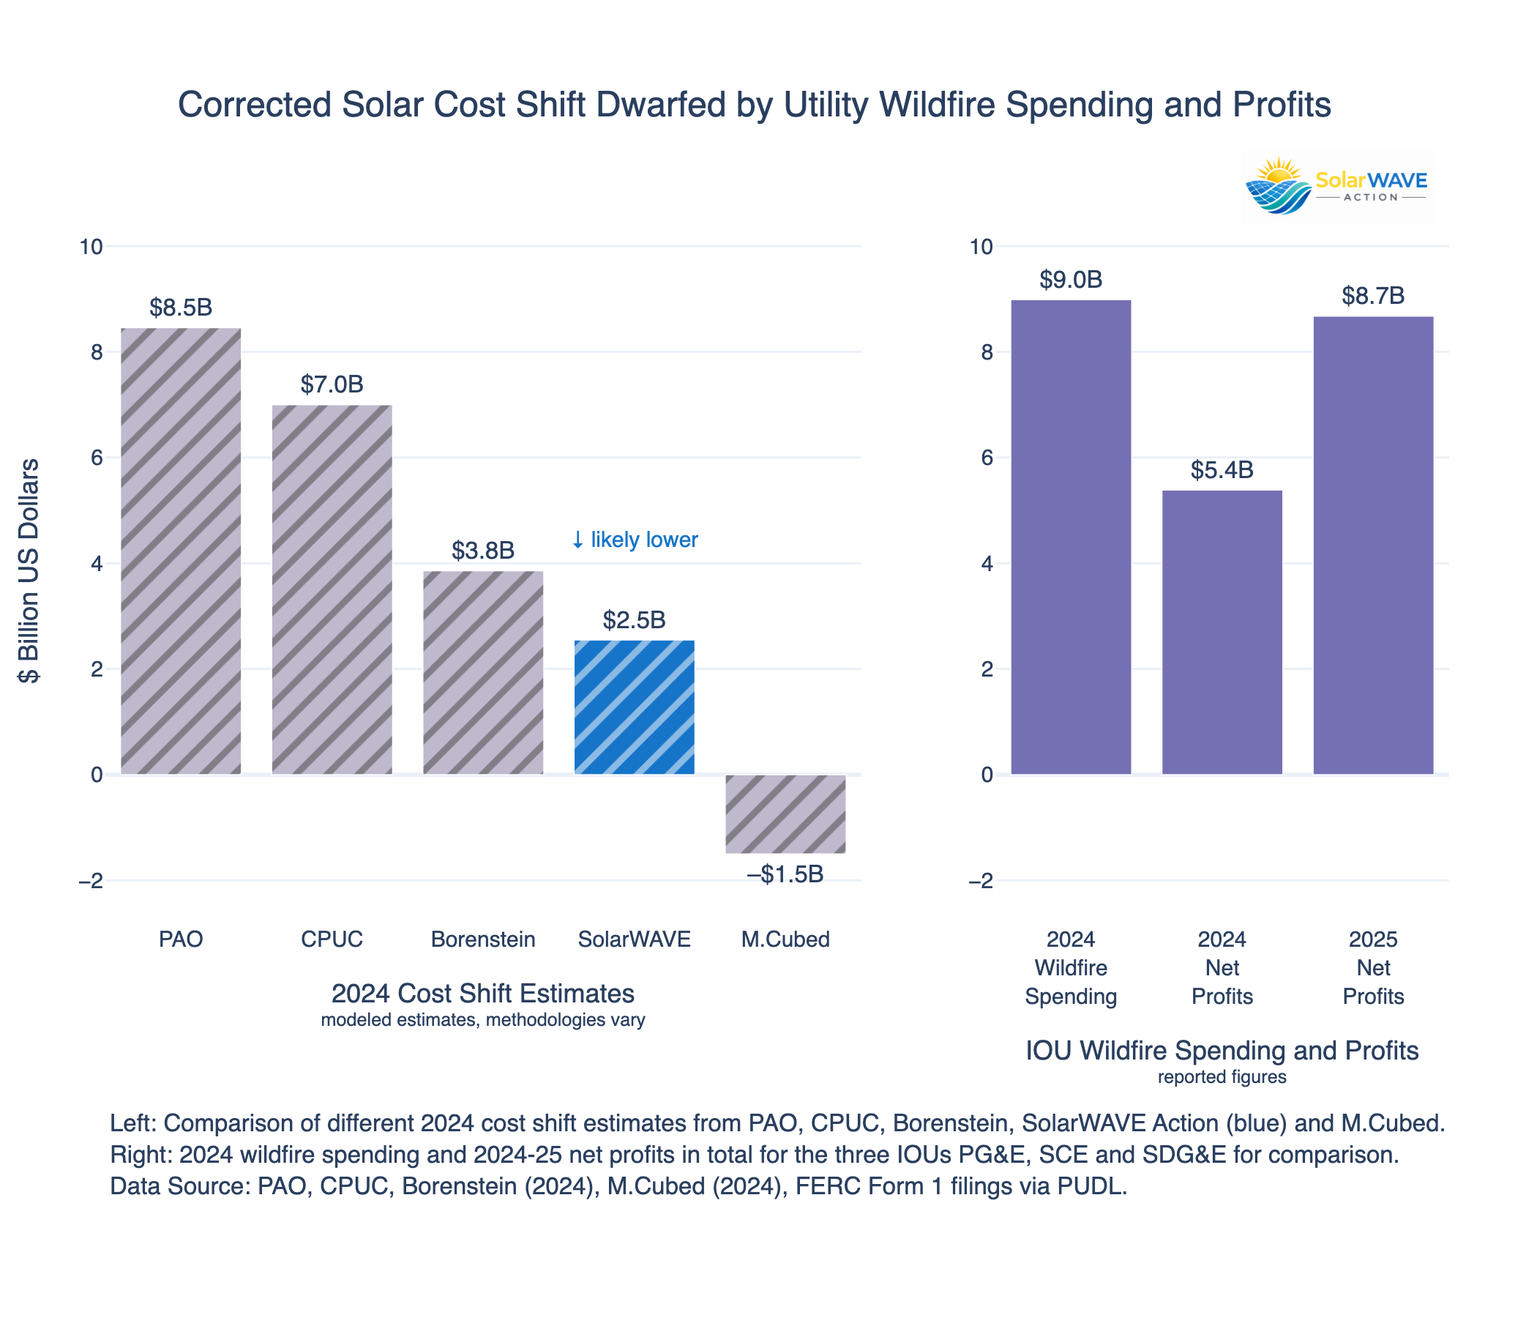
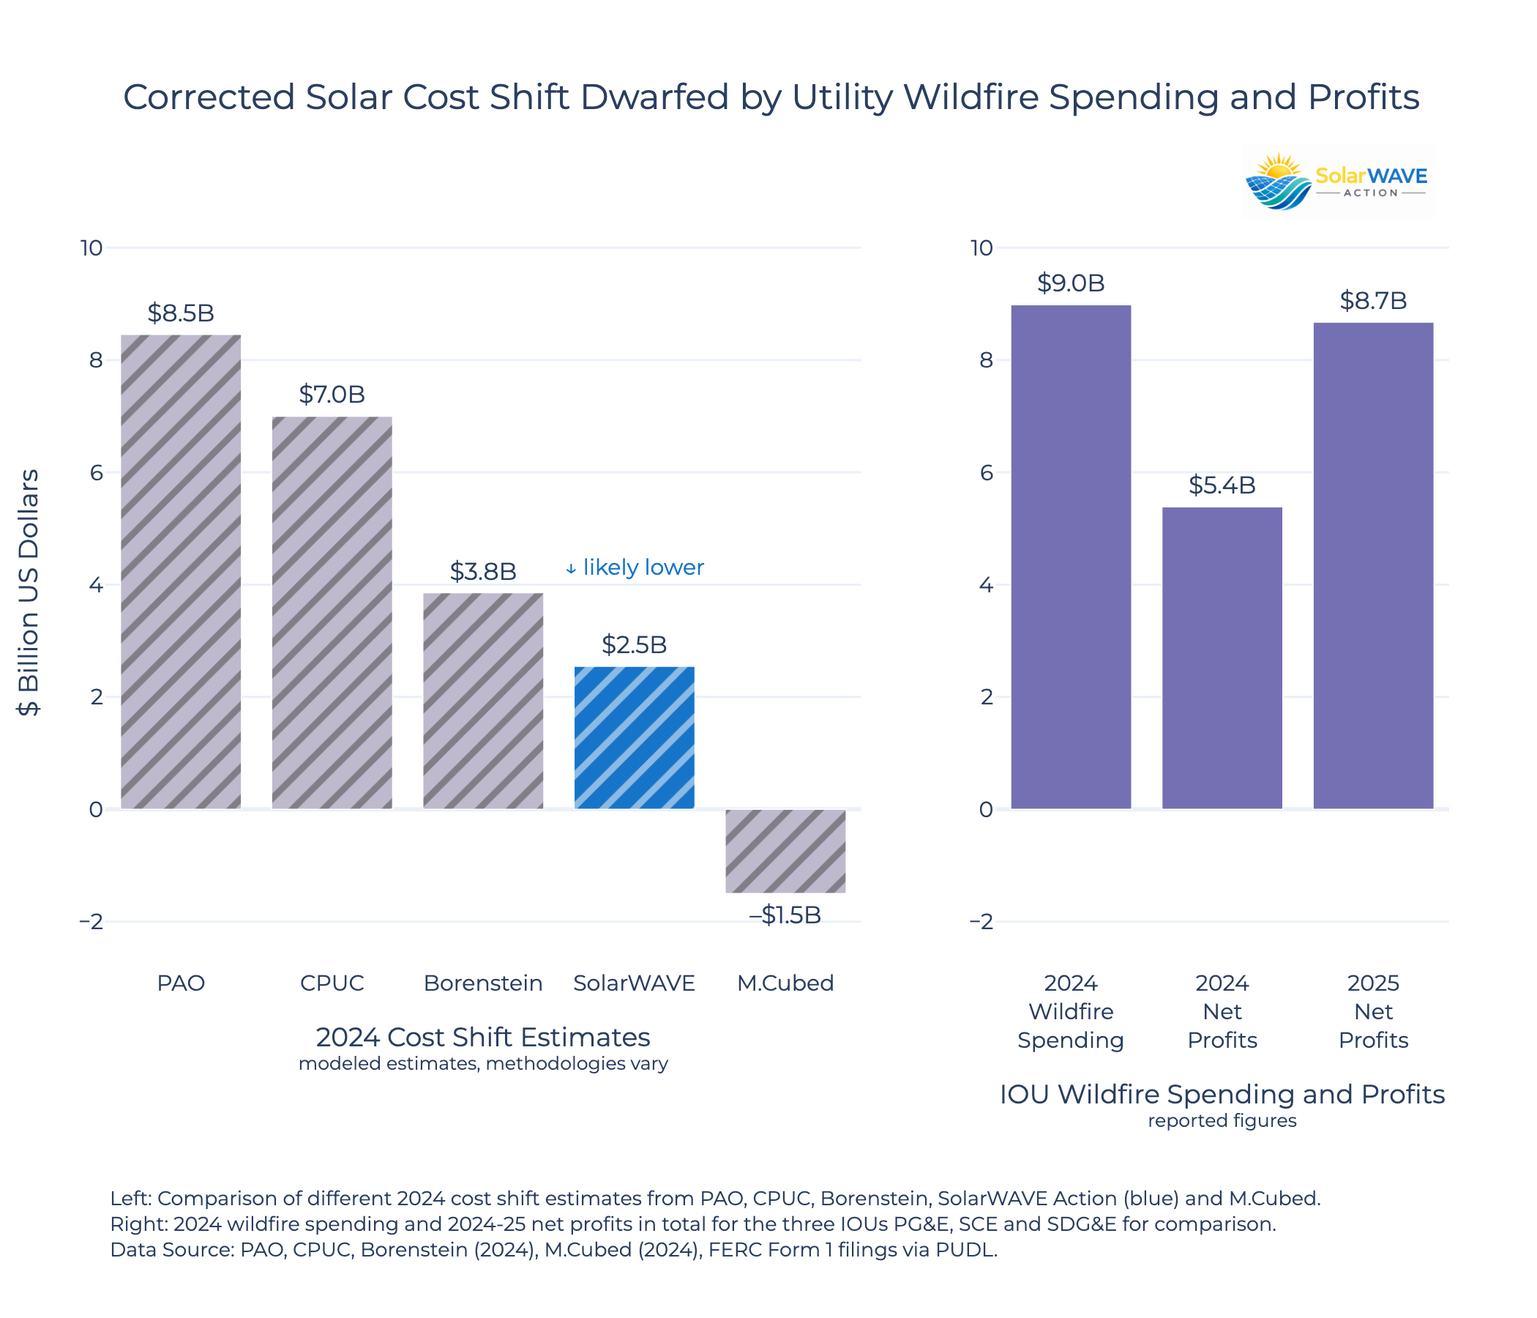
updated png with montserrat

diff --git a/assets/graphs/cost_shift_bargraph.html b/assets/graphs/cost_shift_bargraph.html
@@ -7,7 +7,7 @@
 </head>
 <body>
     <div>                        <script type="text/javascript">window.PlotlyConfig = {MathJaxConfig: 'local'};</script>
-        <script charset="utf-8" src="https://cdn.plot.ly/plotly-3.3.1.min.js" integrity="sha256-4rD3fugVb/nVJYUv5Ky3v+fYXoouHaBSP20WIJuEiWg=" crossorigin="anonymous"></script>                <div id="8f052108-950e-4881-932a-149061d0cab4" class="plotly-graph-div" style="height:600px; width:100%;"></div>            <script type="text/javascript">                window.PLOTLYENV=window.PLOTLYENV || {};                                if (document.getElementById("8f052108-950e-4881-932a-149061d0cab4")) {                    Plotly.newPlot(                        "8f052108-950e-4881-932a-149061d0cab4",                        [{"hovertemplate":"Cost shift method: %{x}\u003cbr\u003eEstimate: $%{y:.1f} billion\u003cextra\u003e\u003c\u002fextra\u003e","marker":{"color":["rgb(190, 185, 205)","rgb(190, 185, 205)","rgb(190, 185, 205)","#1775c9","rgb(190, 185, 205)"],"pattern":{"fgcolor":"rgba(0,0,0,0.2)","shape":"\u002f","solidity":0.3}},"text":["$8.5B","$7.0B","$3.8B","$2.5B","–$1.5B"],"textfont":{"size":11},"textposition":"outside","x":["PAO","CPUC","Borenstein","SolarWAVE","M.Cubed"],"y":[8.455,7.0,3.856,2.547,-1.5],"type":"bar","xaxis":"x","yaxis":"y"},{"hovertemplate":"Category: %{x}\u003cbr\u003eAmount: $%{y:.1f} billion\u003cextra\u003e\u003c\u002fextra\u003e","marker":{"color":"rgb(117,112,179)"},"text":["$9.0B","$5.4B","$8.7B"],"textfont":{"size":11},"textposition":"outside","x":["2024\u003cbr\u003eWildfire\u003cbr\u003eSpending","2024\u003cbr\u003eNet\u003cbr\u003eProfits","2025\u003cbr\u003eNet\u003cbr\u003eProfits"],"y":[8.985,5.384,8.675],"type":"bar","xaxis":"x2","yaxis":"y2"}],                        {"template":{"data":{"histogram2dcontour":[{"type":"histogram2dcontour","colorbar":{"outlinewidth":0,"ticks":""},"colorscale":[[0.0,"#0d0887"],[0.1111111111111111,"#46039f"],[0.2222222222222222,"#7201a8"],[0.3333333333333333,"#9c179e"],[0.4444444444444444,"#bd3786"],[0.5555555555555556,"#d8576b"],[0.6666666666666666,"#ed7953"],[0.7777777777777778,"#fb9f3a"],[0.8888888888888888,"#fdca26"],[1.0,"#f0f921"]]}],"choropleth":[{"type":"choropleth","colorbar":{"outlinewidth":0,"ticks":""}}],"histogram2d":[{"type":"histogram2d","colorbar":{"outlinewidth":0,"ticks":""},"colorscale":[[0.0,"#0d0887"],[0.1111111111111111,"#46039f"],[0.2222222222222222,"#7201a8"],[0.3333333333333333,"#9c179e"],[0.4444444444444444,"#bd3786"],[0.5555555555555556,"#d8576b"],[0.6666666666666666,"#ed7953"],[0.7777777777777778,"#fb9f3a"],[0.8888888888888888,"#fdca26"],[1.0,"#f0f921"]]}],"heatmap":[{"type":"heatmap","colorbar":{"outlinewidth":0,"ticks":""},"colorscale":[[0.0,"#0d0887"],[0.1111111111111111,"#46039f"],[0.2222222222222222,"#7201a8"],[0.3333333333333333,"#9c179e"],[0.4444444444444444,"#bd3786"],[0.5555555555555556,"#d8576b"],[0.6666666666666666,"#ed7953"],[0.7777777777777778,"#fb9f3a"],[0.8888888888888888,"#fdca26"],[1.0,"#f0f921"]]}],"contourcarpet":[{"type":"contourcarpet","colorbar":{"outlinewidth":0,"ticks":""}}],"contour":[{"type":"contour","colorbar":{"outlinewidth":0,"ticks":""},"colorscale":[[0.0,"#0d0887"],[0.1111111111111111,"#46039f"],[0.2222222222222222,"#7201a8"],[0.3333333333333333,"#9c179e"],[0.4444444444444444,"#bd3786"],[0.5555555555555556,"#d8576b"],[0.6666666666666666,"#ed7953"],[0.7777777777777778,"#fb9f3a"],[0.8888888888888888,"#fdca26"],[1.0,"#f0f921"]]}],"surface":[{"type":"surface","colorbar":{"outlinewidth":0,"ticks":""},"colorscale":[[0.0,"#0d0887"],[0.1111111111111111,"#46039f"],[0.2222222222222222,"#7201a8"],[0.3333333333333333,"#9c179e"],[0.4444444444444444,"#bd3786"],[0.5555555555555556,"#d8576b"],[0.6666666666666666,"#ed7953"],[0.7777777777777778,"#fb9f3a"],[0.8888888888888888,"#fdca26"],[1.0,"#f0f921"]]}],"mesh3d":[{"type":"mesh3d","colorbar":{"outlinewidth":0,"ticks":""}}],"scatter":[{"fillpattern":{"fillmode":"overlay","size":10,"solidity":0.2},"type":"scatter"}],"parcoords":[{"type":"parcoords","line":{"colorbar":{"outlinewidth":0,"ticks":""}}}],"scatterpolargl":[{"type":"scatterpolargl","marker":{"colorbar":{"outlinewidth":0,"ticks":""}}}],"bar":[{"error_x":{"color":"#2a3f5f"},"error_y":{"color":"#2a3f5f"},"marker":{"line":{"color":"white","width":0.5},"pattern":{"fillmode":"overlay","size":10,"solidity":0.2}},"type":"bar"}],"scattergeo":[{"type":"scattergeo","marker":{"colorbar":{"outlinewidth":0,"ticks":""}}}],"scatterpolar":[{"type":"scatterpolar","marker":{"colorbar":{"outlinewidth":0,"ticks":""}}}],"histogram":[{"marker":{"pattern":{"fillmode":"overlay","size":10,"solidity":0.2}},"type":"histogram"}],"scattergl":[{"type":"scattergl","marker":{"colorbar":{"outlinewidth":0,"ticks":""}}}],"scatter3d":[{"type":"scatter3d","line":{"colorbar":{"outlinewidth":0,"ticks":""}},"marker":{"colorbar":{"outlinewidth":0,"ticks":""}}}],"scattermap":[{"type":"scattermap","marker":{"colorbar":{"outlinewidth":0,"ticks":""}}}],"scattermapbox":[{"type":"scattermapbox","marker":{"colorbar":{"outlinewidth":0,"ticks":""}}}],"scatterternary":[{"type":"scatterternary","marker":{"colorbar":{"outlinewidth":0,"ticks":""}}}],"scattercarpet":[{"type":"scattercarpet","marker":{"colorbar":{"outlinewidth":0,"ticks":""}}}],"carpet":[{"aaxis":{"endlinecolor":"#2a3f5f","gridcolor":"#C8D4E3","linecolor":"#C8D4E3","minorgridcolor":"#C8D4E3","startlinecolor":"#2a3f5f"},"baxis":{"endlinecolor":"#2a3f5f","gridcolor":"#C8D4E3","linecolor":"#C8D4E3","minorgridcolor":"#C8D4E3","startlinecolor":"#2a3f5f"},"type":"carpet"}],"table":[{"cells":{"fill":{"color":"#EBF0F8"},"line":{"color":"white"}},"header":{"fill":{"color":"#C8D4E3"},"line":{"color":"white"}},"type":"table"}],"barpolar":[{"marker":{"line":{"color":"white","width":0.5},"pattern":{"fillmode":"overlay","size":10,"solidity":0.2}},"type":"barpolar"}],"pie":[{"automargin":true,"type":"pie"}]},"layout":{"autotypenumbers":"strict","colorway":["#636efa","#EF553B","#00cc96","#ab63fa","#FFA15A","#19d3f3","#FF6692","#B6E880","#FF97FF","#FECB52"],"font":{"color":"#2a3f5f","family":"Montserrat, sans-serif"},"hovermode":"closest","hoverlabel":{"align":"left"},"paper_bgcolor":"white","plot_bgcolor":"white","polar":{"bgcolor":"white","angularaxis":{"gridcolor":"#EBF0F8","linecolor":"#EBF0F8","ticks":""},"radialaxis":{"gridcolor":"#EBF0F8","linecolor":"#EBF0F8","ticks":""}},"ternary":{"bgcolor":"white","aaxis":{"gridcolor":"#DFE8F3","linecolor":"#A2B1C6","ticks":""},"baxis":{"gridcolor":"#DFE8F3","linecolor":"#A2B1C6","ticks":""},"caxis":{"gridcolor":"#DFE8F3","linecolor":"#A2B1C6","ticks":""}},"coloraxis":{"colorbar":{"outlinewidth":0,"ticks":""}},"colorscale":{"sequential":[[0.0,"#0d0887"],[0.1111111111111111,"#46039f"],[0.2222222222222222,"#7201a8"],[0.3333333333333333,"#9c179e"],[0.4444444444444444,"#bd3786"],[0.5555555555555556,"#d8576b"],[0.6666666666666666,"#ed7953"],[0.7777777777777778,"#fb9f3a"],[0.8888888888888888,"#fdca26"],[1.0,"#f0f921"]],"sequentialminus":[[0.0,"#0d0887"],[0.1111111111111111,"#46039f"],[0.2222222222222222,"#7201a8"],[0.3333333333333333,"#9c179e"],[0.4444444444444444,"#bd3786"],[0.5555555555555556,"#d8576b"],[0.6666666666666666,"#ed7953"],[0.7777777777777778,"#fb9f3a"],[0.8888888888888888,"#fdca26"],[1.0,"#f0f921"]],"diverging":[[0,"#8e0152"],[0.1,"#c51b7d"],[0.2,"#de77ae"],[0.3,"#f1b6da"],[0.4,"#fde0ef"],[0.5,"#f7f7f7"],[0.6,"#e6f5d0"],[0.7,"#b8e186"],[0.8,"#7fbc41"],[0.9,"#4d9221"],[1,"#276419"]]},"xaxis":{"gridcolor":"#EBF0F8","linecolor":"#EBF0F8","ticks":"","title":{"standoff":15},"zerolinecolor":"#EBF0F8","automargin":true,"zerolinewidth":2},"yaxis":{"gridcolor":"#EBF0F8","linecolor":"#EBF0F8","ticks":"","title":{"standoff":15},"zerolinecolor":"#EBF0F8","automargin":true,"zerolinewidth":2},"scene":{"xaxis":{"backgroundcolor":"white","gridcolor":"#DFE8F3","linecolor":"#EBF0F8","showbackground":true,"ticks":"","zerolinecolor":"#EBF0F8","gridwidth":2},"yaxis":{"backgroundcolor":"white","gridcolor":"#DFE8F3","linecolor":"#EBF0F8","showbackground":true,"ticks":"","zerolinecolor":"#EBF0F8","gridwidth":2},"zaxis":{"backgroundcolor":"white","gridcolor":"#DFE8F3","linecolor":"#EBF0F8","showbackground":true,"ticks":"","zerolinecolor":"#EBF0F8","gridwidth":2}},"shapedefaults":{"line":{"color":"#2a3f5f"}},"annotationdefaults":{"arrowcolor":"#2a3f5f","arrowhead":0,"arrowwidth":1},"geo":{"bgcolor":"white","landcolor":"white","subunitcolor":"#C8D4E3","showland":true,"showlakes":true,"lakecolor":"white"},"title":{"x":0.05},"mapbox":{"style":"light"}}},"xaxis":{"anchor":"y","domain":[0.0,0.5625],"title":{"text":"2024 Cost Shift Estimates\u003cbr\u003e\u003csup\u003emodeled estimates, methodologies vary\u003c\u002fsup\u003e"}},"yaxis":{"anchor":"x","domain":[0.0,1.0],"range":[-2.8,10.5],"title":{"text":"$ Billion US Dollars"}},"xaxis2":{"anchor":"y2","domain":[0.6625,1.0],"title":{"text":"IOU Wildfire Spending and Profits\u003cbr\u003e\u003csup\u003ereported figures\u003c\u002fsup\u003e"}},"yaxis2":{"anchor":"x2","domain":[0.0,1.0],"range":[-2.8,10.5]},"annotations":[{"font":{"color":"#1775c9","size":10},"showarrow":false,"text":"↓ likely lower","x":"SolarWAVE","xref":"x","y":2.547,"yref":"y","yshift":45}],"margin":{"l":40,"r":40,"t":80,"b":60},"font":{"size":10,"family":"Montserrat, sans-serif"},"title":{"font":{"family":"Montserrat, sans-serif"}},"autosize":true,"height":600,"showlegend":false,"images":[{"sizex":0.144,"sizey":0.108,"source":"https:\u002f\u002fsolarwaveaction.org\u002fassets\u002fimages\u002fSolarWAVEActionLogoTransparent.png","x":0.99,"xanchor":"right","xref":"paper","y":1.1,"yanchor":"top","yref":"paper"}]},                        {"responsive": true, "displaylogo": false}                    )                };            </script>        </div>
+        <script charset="utf-8" src="https://cdn.plot.ly/plotly-3.3.1.min.js" integrity="sha256-4rD3fugVb/nVJYUv5Ky3v+fYXoouHaBSP20WIJuEiWg=" crossorigin="anonymous"></script>                <div id="92cb1c1f-0724-4981-9a3a-e72d617080ae" class="plotly-graph-div" style="height:600px; width:100%;"></div>            <script type="text/javascript">                window.PLOTLYENV=window.PLOTLYENV || {};                                if (document.getElementById("92cb1c1f-0724-4981-9a3a-e72d617080ae")) {                    Plotly.newPlot(                        "92cb1c1f-0724-4981-9a3a-e72d617080ae",                        [{"hovertemplate":"Cost shift method: %{x}\u003cbr\u003eEstimate: $%{y:.1f} billion\u003cextra\u003e\u003c\u002fextra\u003e","marker":{"color":["rgb(190, 185, 205)","rgb(190, 185, 205)","rgb(190, 185, 205)","#1775c9","rgb(190, 185, 205)"],"pattern":{"fgcolor":"rgba(0,0,0,0.2)","shape":"\u002f","solidity":0.3}},"text":["$8.5B","$7.0B","$3.8B","$2.5B","–$1.5B"],"textfont":{"size":11},"textposition":"outside","x":["PAO","CPUC","Borenstein","SolarWAVE","M.Cubed"],"y":[8.455,7.0,3.856,2.547,-1.5],"type":"bar","xaxis":"x","yaxis":"y"},{"hovertemplate":"Category: %{x}\u003cbr\u003eAmount: $%{y:.1f} billion\u003cextra\u003e\u003c\u002fextra\u003e","marker":{"color":"rgb(117,112,179)"},"text":["$9.0B","$5.4B","$8.7B"],"textfont":{"size":11},"textposition":"outside","x":["2024\u003cbr\u003eWildfire\u003cbr\u003eSpending","2024\u003cbr\u003eNet\u003cbr\u003eProfits","2025\u003cbr\u003eNet\u003cbr\u003eProfits"],"y":[8.985,5.384,8.675],"type":"bar","xaxis":"x2","yaxis":"y2"}],                        {"template":{"data":{"histogram2dcontour":[{"type":"histogram2dcontour","colorbar":{"outlinewidth":0,"ticks":""},"colorscale":[[0.0,"#0d0887"],[0.1111111111111111,"#46039f"],[0.2222222222222222,"#7201a8"],[0.3333333333333333,"#9c179e"],[0.4444444444444444,"#bd3786"],[0.5555555555555556,"#d8576b"],[0.6666666666666666,"#ed7953"],[0.7777777777777778,"#fb9f3a"],[0.8888888888888888,"#fdca26"],[1.0,"#f0f921"]]}],"choropleth":[{"type":"choropleth","colorbar":{"outlinewidth":0,"ticks":""}}],"histogram2d":[{"type":"histogram2d","colorbar":{"outlinewidth":0,"ticks":""},"colorscale":[[0.0,"#0d0887"],[0.1111111111111111,"#46039f"],[0.2222222222222222,"#7201a8"],[0.3333333333333333,"#9c179e"],[0.4444444444444444,"#bd3786"],[0.5555555555555556,"#d8576b"],[0.6666666666666666,"#ed7953"],[0.7777777777777778,"#fb9f3a"],[0.8888888888888888,"#fdca26"],[1.0,"#f0f921"]]}],"heatmap":[{"type":"heatmap","colorbar":{"outlinewidth":0,"ticks":""},"colorscale":[[0.0,"#0d0887"],[0.1111111111111111,"#46039f"],[0.2222222222222222,"#7201a8"],[0.3333333333333333,"#9c179e"],[0.4444444444444444,"#bd3786"],[0.5555555555555556,"#d8576b"],[0.6666666666666666,"#ed7953"],[0.7777777777777778,"#fb9f3a"],[0.8888888888888888,"#fdca26"],[1.0,"#f0f921"]]}],"contourcarpet":[{"type":"contourcarpet","colorbar":{"outlinewidth":0,"ticks":""}}],"contour":[{"type":"contour","colorbar":{"outlinewidth":0,"ticks":""},"colorscale":[[0.0,"#0d0887"],[0.1111111111111111,"#46039f"],[0.2222222222222222,"#7201a8"],[0.3333333333333333,"#9c179e"],[0.4444444444444444,"#bd3786"],[0.5555555555555556,"#d8576b"],[0.6666666666666666,"#ed7953"],[0.7777777777777778,"#fb9f3a"],[0.8888888888888888,"#fdca26"],[1.0,"#f0f921"]]}],"surface":[{"type":"surface","colorbar":{"outlinewidth":0,"ticks":""},"colorscale":[[0.0,"#0d0887"],[0.1111111111111111,"#46039f"],[0.2222222222222222,"#7201a8"],[0.3333333333333333,"#9c179e"],[0.4444444444444444,"#bd3786"],[0.5555555555555556,"#d8576b"],[0.6666666666666666,"#ed7953"],[0.7777777777777778,"#fb9f3a"],[0.8888888888888888,"#fdca26"],[1.0,"#f0f921"]]}],"mesh3d":[{"type":"mesh3d","colorbar":{"outlinewidth":0,"ticks":""}}],"scatter":[{"fillpattern":{"fillmode":"overlay","size":10,"solidity":0.2},"type":"scatter"}],"parcoords":[{"type":"parcoords","line":{"colorbar":{"outlinewidth":0,"ticks":""}}}],"scatterpolargl":[{"type":"scatterpolargl","marker":{"colorbar":{"outlinewidth":0,"ticks":""}}}],"bar":[{"error_x":{"color":"#2a3f5f"},"error_y":{"color":"#2a3f5f"},"marker":{"line":{"color":"white","width":0.5},"pattern":{"fillmode":"overlay","size":10,"solidity":0.2}},"type":"bar"}],"scattergeo":[{"type":"scattergeo","marker":{"colorbar":{"outlinewidth":0,"ticks":""}}}],"scatterpolar":[{"type":"scatterpolar","marker":{"colorbar":{"outlinewidth":0,"ticks":""}}}],"histogram":[{"marker":{"pattern":{"fillmode":"overlay","size":10,"solidity":0.2}},"type":"histogram"}],"scattergl":[{"type":"scattergl","marker":{"colorbar":{"outlinewidth":0,"ticks":""}}}],"scatter3d":[{"type":"scatter3d","line":{"colorbar":{"outlinewidth":0,"ticks":""}},"marker":{"colorbar":{"outlinewidth":0,"ticks":""}}}],"scattermap":[{"type":"scattermap","marker":{"colorbar":{"outlinewidth":0,"ticks":""}}}],"scattermapbox":[{"type":"scattermapbox","marker":{"colorbar":{"outlinewidth":0,"ticks":""}}}],"scatterternary":[{"type":"scatterternary","marker":{"colorbar":{"outlinewidth":0,"ticks":""}}}],"scattercarpet":[{"type":"scattercarpet","marker":{"colorbar":{"outlinewidth":0,"ticks":""}}}],"carpet":[{"aaxis":{"endlinecolor":"#2a3f5f","gridcolor":"#C8D4E3","linecolor":"#C8D4E3","minorgridcolor":"#C8D4E3","startlinecolor":"#2a3f5f"},"baxis":{"endlinecolor":"#2a3f5f","gridcolor":"#C8D4E3","linecolor":"#C8D4E3","minorgridcolor":"#C8D4E3","startlinecolor":"#2a3f5f"},"type":"carpet"}],"table":[{"cells":{"fill":{"color":"#EBF0F8"},"line":{"color":"white"}},"header":{"fill":{"color":"#C8D4E3"},"line":{"color":"white"}},"type":"table"}],"barpolar":[{"marker":{"line":{"color":"white","width":0.5},"pattern":{"fillmode":"overlay","size":10,"solidity":0.2}},"type":"barpolar"}],"pie":[{"automargin":true,"type":"pie"}]},"layout":{"autotypenumbers":"strict","colorway":["#636efa","#EF553B","#00cc96","#ab63fa","#FFA15A","#19d3f3","#FF6692","#B6E880","#FF97FF","#FECB52"],"font":{"color":"#2a3f5f","family":"Montserrat, sans-serif"},"hovermode":"closest","hoverlabel":{"align":"left"},"paper_bgcolor":"white","plot_bgcolor":"white","polar":{"bgcolor":"white","angularaxis":{"gridcolor":"#EBF0F8","linecolor":"#EBF0F8","ticks":""},"radialaxis":{"gridcolor":"#EBF0F8","linecolor":"#EBF0F8","ticks":""}},"ternary":{"bgcolor":"white","aaxis":{"gridcolor":"#DFE8F3","linecolor":"#A2B1C6","ticks":""},"baxis":{"gridcolor":"#DFE8F3","linecolor":"#A2B1C6","ticks":""},"caxis":{"gridcolor":"#DFE8F3","linecolor":"#A2B1C6","ticks":""}},"coloraxis":{"colorbar":{"outlinewidth":0,"ticks":""}},"colorscale":{"sequential":[[0.0,"#0d0887"],[0.1111111111111111,"#46039f"],[0.2222222222222222,"#7201a8"],[0.3333333333333333,"#9c179e"],[0.4444444444444444,"#bd3786"],[0.5555555555555556,"#d8576b"],[0.6666666666666666,"#ed7953"],[0.7777777777777778,"#fb9f3a"],[0.8888888888888888,"#fdca26"],[1.0,"#f0f921"]],"sequentialminus":[[0.0,"#0d0887"],[0.1111111111111111,"#46039f"],[0.2222222222222222,"#7201a8"],[0.3333333333333333,"#9c179e"],[0.4444444444444444,"#bd3786"],[0.5555555555555556,"#d8576b"],[0.6666666666666666,"#ed7953"],[0.7777777777777778,"#fb9f3a"],[0.8888888888888888,"#fdca26"],[1.0,"#f0f921"]],"diverging":[[0,"#8e0152"],[0.1,"#c51b7d"],[0.2,"#de77ae"],[0.3,"#f1b6da"],[0.4,"#fde0ef"],[0.5,"#f7f7f7"],[0.6,"#e6f5d0"],[0.7,"#b8e186"],[0.8,"#7fbc41"],[0.9,"#4d9221"],[1,"#276419"]]},"xaxis":{"gridcolor":"#EBF0F8","linecolor":"#EBF0F8","ticks":"","title":{"standoff":15},"zerolinecolor":"#EBF0F8","automargin":true,"zerolinewidth":2},"yaxis":{"gridcolor":"#EBF0F8","linecolor":"#EBF0F8","ticks":"","title":{"standoff":15},"zerolinecolor":"#EBF0F8","automargin":true,"zerolinewidth":2},"scene":{"xaxis":{"backgroundcolor":"white","gridcolor":"#DFE8F3","linecolor":"#EBF0F8","showbackground":true,"ticks":"","zerolinecolor":"#EBF0F8","gridwidth":2},"yaxis":{"backgroundcolor":"white","gridcolor":"#DFE8F3","linecolor":"#EBF0F8","showbackground":true,"ticks":"","zerolinecolor":"#EBF0F8","gridwidth":2},"zaxis":{"backgroundcolor":"white","gridcolor":"#DFE8F3","linecolor":"#EBF0F8","showbackground":true,"ticks":"","zerolinecolor":"#EBF0F8","gridwidth":2}},"shapedefaults":{"line":{"color":"#2a3f5f"}},"annotationdefaults":{"arrowcolor":"#2a3f5f","arrowhead":0,"arrowwidth":1},"geo":{"bgcolor":"white","landcolor":"white","subunitcolor":"#C8D4E3","showland":true,"showlakes":true,"lakecolor":"white"},"title":{"x":0.05},"mapbox":{"style":"light"}}},"xaxis":{"anchor":"y","domain":[0.0,0.5625],"title":{"text":"2024 Cost Shift Estimates\u003cbr\u003e\u003csup\u003emodeled estimates, methodologies vary\u003c\u002fsup\u003e"}},"yaxis":{"anchor":"x","domain":[0.0,1.0],"range":[-2.8,10.5],"title":{"text":"$ Billion US Dollars"}},"xaxis2":{"anchor":"y2","domain":[0.6625,1.0],"title":{"text":"IOU Wildfire Spending and Profits\u003cbr\u003e\u003csup\u003ereported figures\u003c\u002fsup\u003e"}},"yaxis2":{"anchor":"x2","domain":[0.0,1.0],"range":[-2.8,10.5]},"annotations":[{"font":{"color":"#1775c9","size":10},"showarrow":false,"text":"↓ likely lower","x":"SolarWAVE","xref":"x","y":2.547,"yref":"y","yshift":45}],"margin":{"l":40,"r":40,"t":80,"b":60},"font":{"size":10,"family":"Montserrat, sans-serif"},"title":{"font":{"family":"Montserrat, sans-serif"}},"autosize":true,"height":600,"showlegend":false,"images":[{"sizex":0.144,"sizey":0.108,"source":"https:\u002f\u002fsolarwaveaction.org\u002fassets\u002fimages\u002fSolarWAVEActionLogoTransparent.png","x":0.99,"xanchor":"right","xref":"paper","y":1.1,"yanchor":"top","yref":"paper"}]},                        {"responsive": true, "displaylogo": false}                    )                };            </script>        </div>
 <script>
 document.fonts.ready.then(function() {
   var gd = document.querySelector(".plotly-graph-div");

diff --git a/blog/blog.html b/blog/blog.html
@@ -60,6 +60,7 @@ permalink: /blog/
       gap: 3rem; align-items: center;
       margin-bottom: 2rem;
     }
+    .featured-card.img-preview { grid-template-columns: 1.5fr 1fr; }
 
     .featured-card h2 {
       font-size: 1.6rem; font-weight: 700; line-height: 1.25;
@@ -138,6 +139,7 @@ permalink: /blog/
       .content { padding: 1.5rem 1rem 3rem; }
       .featured-card { grid-template-columns: 1fr; }
       .chart-placeholder { display: none; }
+      .chart-placeholder.show-mobile { display: block; }
     }
 
     </style>
@@ -164,7 +166,7 @@ permalink: /blog/
   <!-- MAIN CONTENT -->
   <div class="content">
 
-    <div class="featured-card" data-category="analysis">
+    <div class="featured-card img-preview" data-category="analysis">
       <div>
         <h2>How Two Simple Fixes Reduce the Cost Shift By Two-Thirds</h2>
         <p class="excerpt">California's most-cited solar cost-shift figure rests on a flawed methodology. Correct the equation and update the inputs, and $8.5 billion becomes $2.7 billion — and likely lower.</p>
@@ -175,10 +177,8 @@ permalink: /blog/
         </div>
         <a href="{{ '/blog/cost_shift_redefinition/' | relative_url }}" class="read-btn">Read post<span>→</span></a>
       </div>
-      <div class="chart-placeholder">
-<!--        <p class="fig-title" id="blog-fig1-title"></p>-->
-        <img src="/assets/graphs/cost_shift_bargraph.png" alt="Cost shift bar chart" style="width:50%;height:auto;display:block;border-radius:4px;">
-<!--        <p class="fig-caption" id="blog-fig1-caption"></p>-->
+      <div class="chart-placeholder show-mobile">
+        <img src="/assets/graphs/cost_shift_bargraph.png" alt="Cost shift bar chart" style="width:100%;height:auto;display:block;border-radius:4px;">
       </div><!-- close chart-placeholder -->
     </div><!-- close featured-card -->
 
@@ -237,14 +237,4 @@ permalink: /blog/
       });
     });
 
-    fetch('/assets/graphs/cost_shift_bargraph.html')
-      .then(r => r.text())
-      .then(html => {
-        const doc = new DOMParser().parseFromString(html, 'text/html');
-        const title = doc.querySelector('meta[name="title"]')?.getAttribute('content');
-        const caption = doc.querySelector('meta[name="description"]')?.getAttribute('content');
-        if (title) document.getElementById('blog-fig1-title').textContent = title;
-        if (caption) document.getElementById('blog-fig1-caption').innerHTML = caption.replace('Data Source:', '<br>Data Source:');
-      })
-      .catch(() => {});
   </script>
